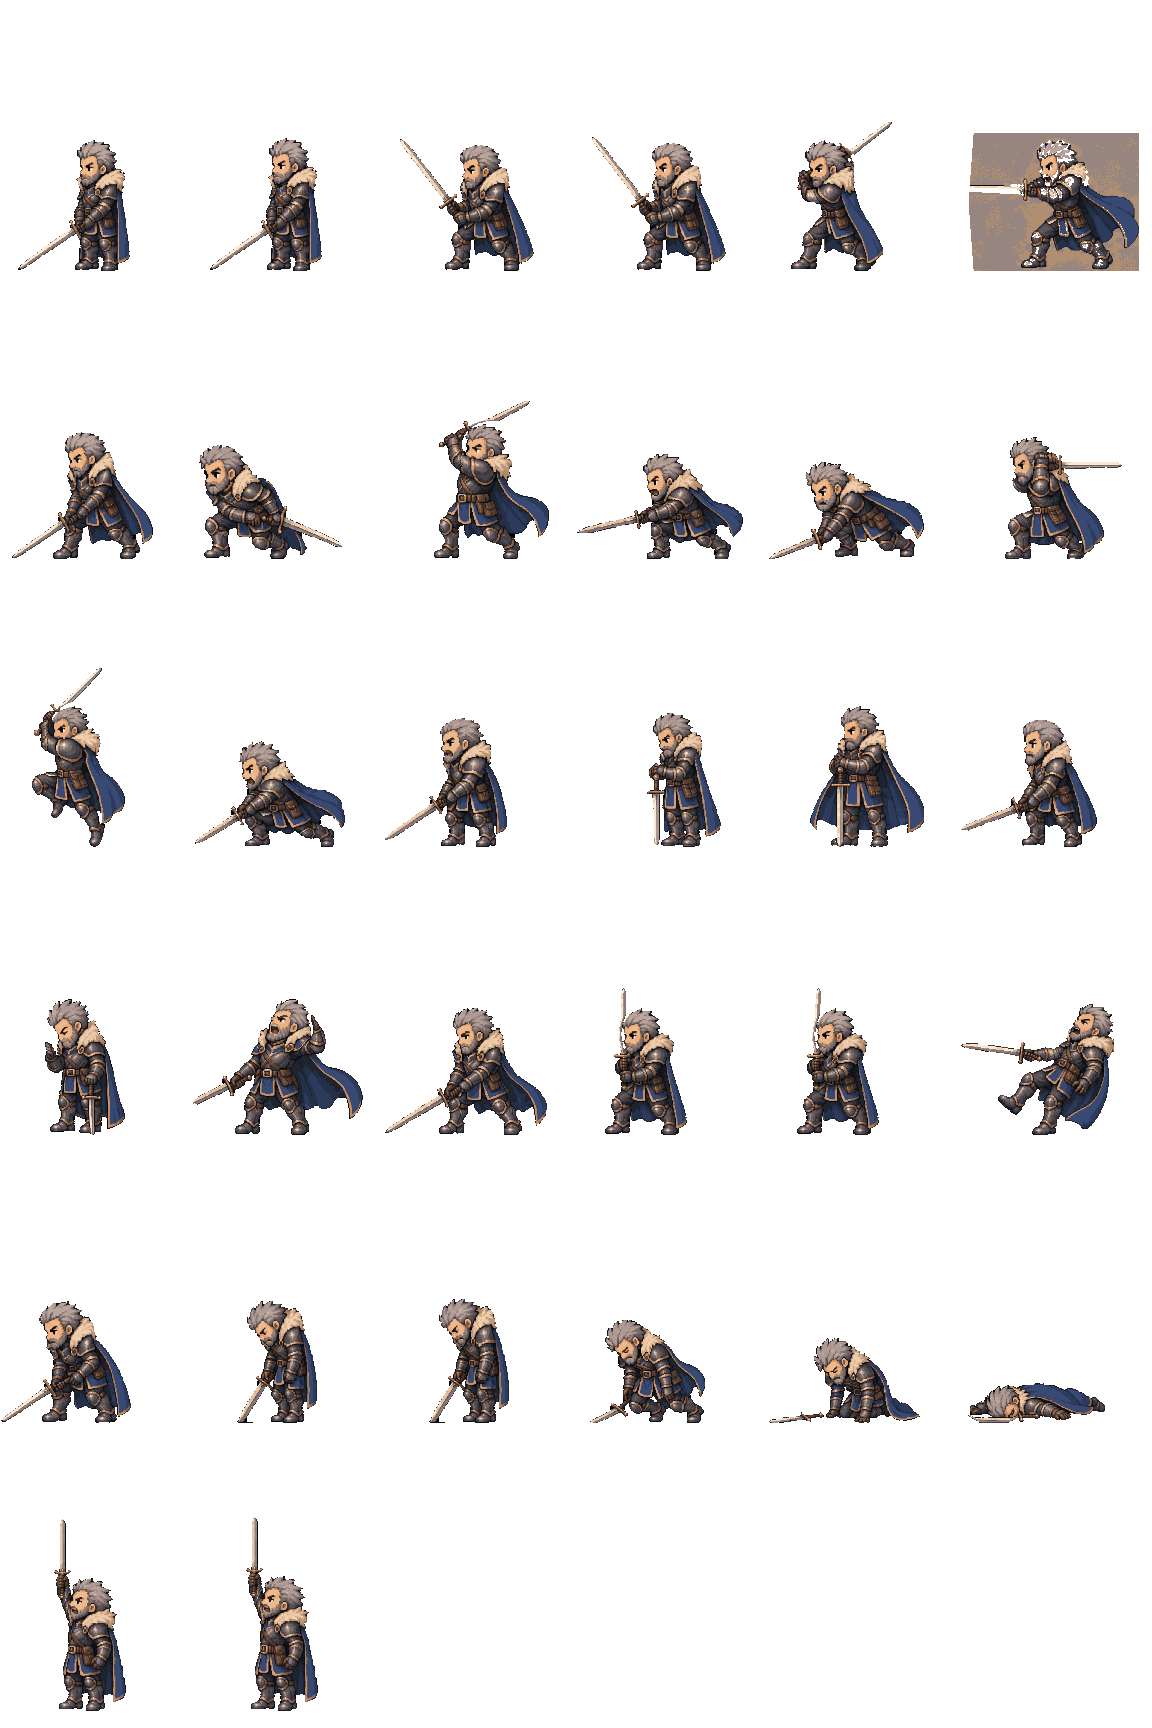
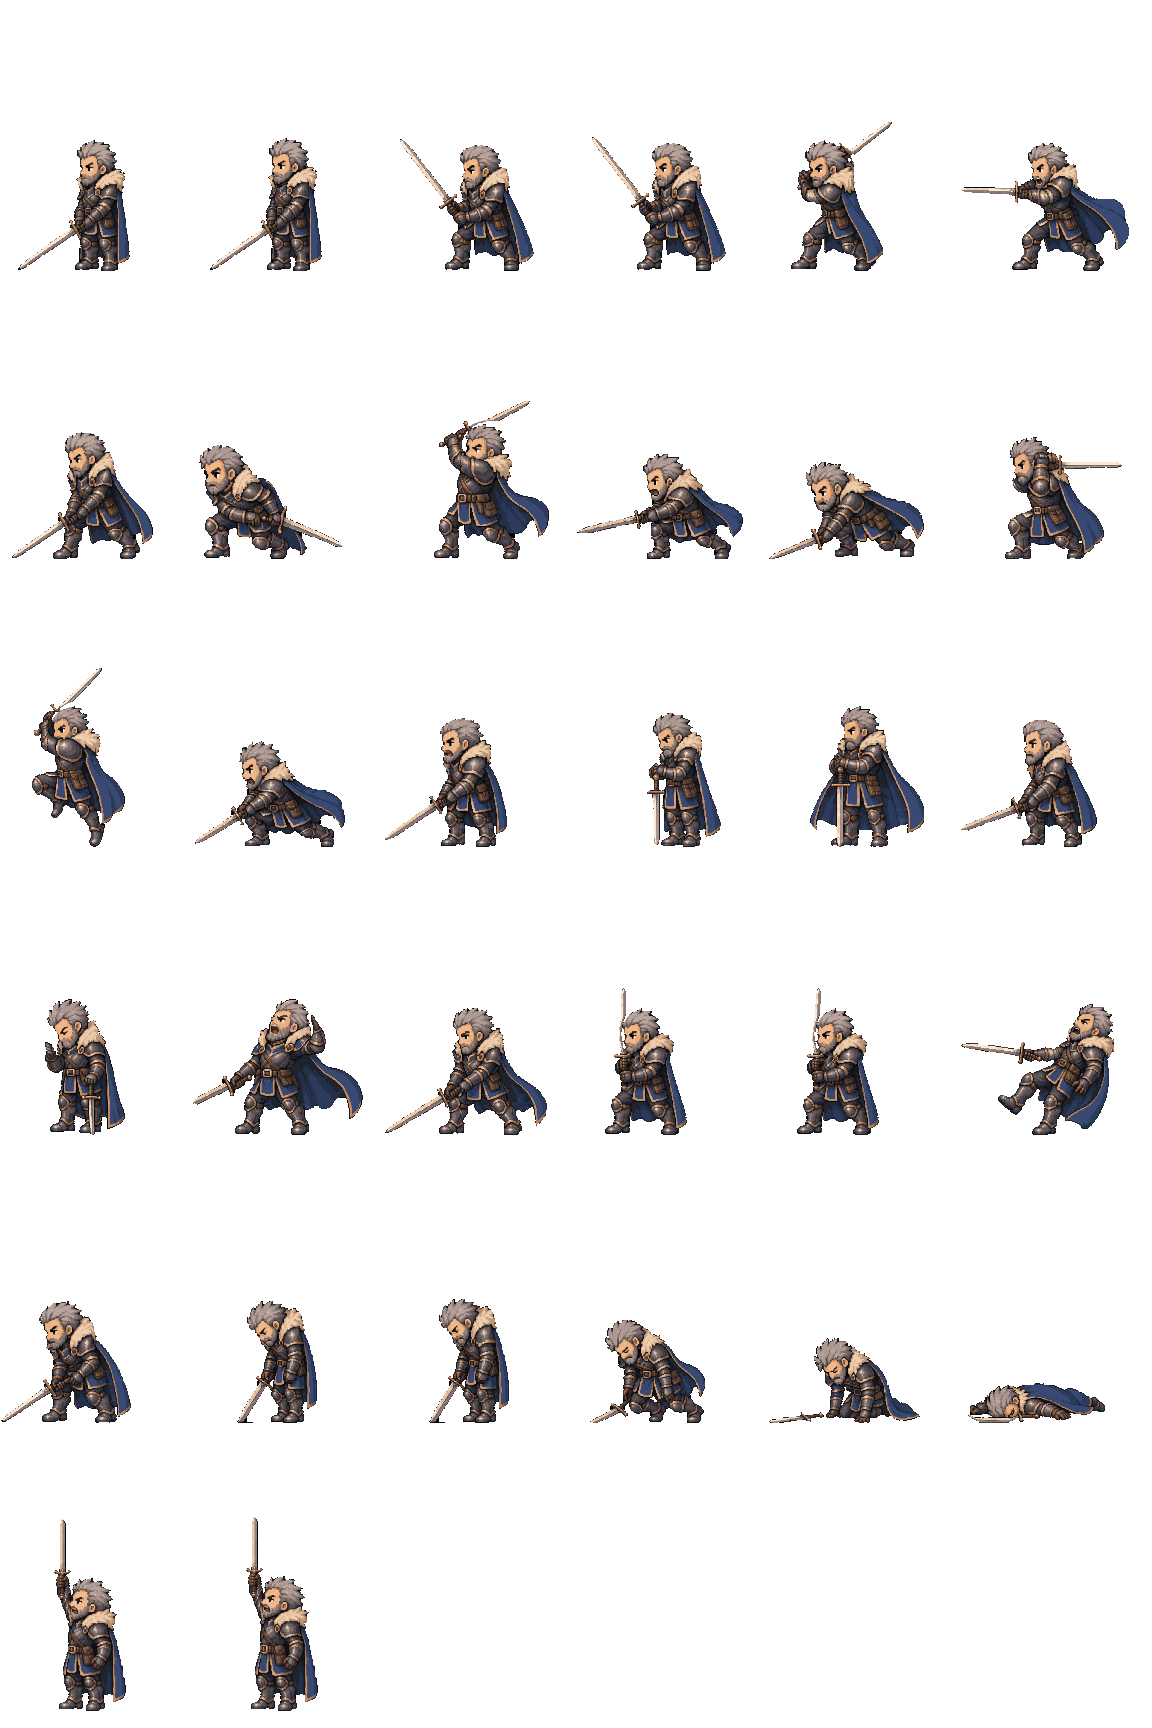
Pass SA1: the grey background seen in combat is Marek's strike.1; its cause in the combat chain, the chain fixed, every production sheet audited clean
The frame: marek-x3-combat strike.1 (figure `cut`, played on each of his simple strikes) carried an opaque beige-grey rectangle (its box 95 % full, a straight edge of 165 texels) and its greys cleared. The cause: rivalRig grows the head and gives reconstruct-grid a box reaching higher than the figure's; isolate cleaned only the figure's box, so the crop's top-left corner fell on the neighbouring windup's blade; reconstruct-grid took that steel for the background, kept the green as figure (the palette turned it beige grey) and cleared the figure's greys (--holes). Measured on every figure of the eight combat rigs: cut at 226 from the background, every other at 36 at most. Rendering not involved (binary alpha, ring, nearest, no mipmaps already enforced).

- lib/combat.mjs: isolate covers the crop reconstruct-grid reads; cornerIsBackground stops a build whose crop corner is not the sheet's background.
- build-combat --check on the eight rigs: seven rebuilt identical, Marek's strike.1 alone changes (22,236 texels; meta.pushed 37, its whole blade past the cell's front); the seven unchanged packs record the new lib hash only.
- tests/sheet-clean.test.mjs: every production character sheet (39) with binary alpha, a transparent ring, no figure filling 90 % of its box, no straight edge of half the cell; the chain's guard on Marek's cut. Fails on main's export (strike.1 only), passes now.
[…]

Changed region(s): [[0.8438, 0.0625, 1.0, 0.1562]]

diff --git a/JOURNAL.md b/JOURNAL.md
@@ -430,6 +430,57 @@ Légende : **[OK]** réussi · **[KO]** échec / impasse · **[?]** non résolu 
 ### Où reprendre
 - S2, dans sa séance. Toujours à l'opérateur : l'essai Safari sur un appareil Apple (SC-SAFARI).
 
+## Passe SA1 — Le fond gris d'un sprite en combat : l'image `strike.1` de Marek, sa cause dans la chaîne, l'audit de toutes les feuilles (2026-11-04)
+
+### Demande
+- L'opérateur, mot pour mot, transmis par la séance mère : « en combat j'ai remarque le fond d'un sprite n'est pas totalement transparent ( gris il me semble ) il faut audit et corriger cela et s'assurer que les autres sprites sont clean aussi ». La demande autorise la correction, pas l'approbation en production d'une feuille changée.
+
+### Le sprite vu — [OK] trouvé
+- **`marek-x3-combat`, image `strike.1`** (la figure `cut`, l'image du milieu de son coup simple, jouée à chacun de ses coups simples ; dans le duel du script de capture, la première fois à 10,1 s). L'image portait un rectangle opaque beige-gris autour de Marek (sa boîte, lame comprise, 170 × 138 texels, pleine à 95 %), et ses parties claires (cheveux, acier, reflets de l'armure) étaient transparentes : le fond et les gris de la figure inversés. Capturé dans le vrai duel (`?scene=arena&v2=1&foe=marek`, le duel mené jusqu'à ce que Marek joue lui-même `strike.1`), de nuit et à midi.
+
+### La cause — [OK] prouvée, dans la chaîne, pas dans le rendu
+- `rivalRig` grandit la tête des figures sur la planche (`growHead`) et donne à `reconstruct-grid.mjs` une boîte agrandie vers le haut (`grownBox`). `isolate`, qui peint les figures voisines avec le fond, ne travaillait que sur la boîte de la figure (± 40 px). Pour `cut` (planche a), la boîte agrandie monte de 144 à 98 ; son coin haut-gauche, (1049, 92) une fois la marge de 6 px ôtée, tombe sur la lame de la figure voisine `windup` (pixels 125,122,116 ; le fond vert de la planche : 3,166,73), restée hors de la zone d'`isolate`.
+- `reconstruct-grid` prend la première case de sa découpe pour le fond. Il a pris l'acier gris : le vert, à plus de 60 du gris, est resté figure ; `--holes` a vidé les texels proches du gris dans la figure (cheveux, lame, reflets) ; la palette de Marek a changé le vert en beige-gris (bruit compris : la moucheture) ; `dehalo` n'a pelé que deux anneaux de bord.
+- Mesuré sur toutes les figures des huit rigs de combat (le coin de chaque découpe après `isolate`, contre le fond de sa planche) : `cut` de Marek à 226 ; toutes les autres à 36 au plus (le bruit du fond vert contre le pixel de coin de la planche). Une seule figure touchée.
+- **Le rendu est hors de cause** : le chargeur (`CombatSheets.cellsOf`) refuse déjà tout alpha partiel et tout texel sur l'anneau de la case ; la texture est en `NearestFilter`, sans mipmaps, en `ClampToEdge` ; le rectangle était fait de texels opaques, connexes à la silhouette, au milieu de la case : aucun de ces contrôles ne pouvait le voir.
+
+### L'audit de toutes les feuilles de production — [OK]
+- Mesuré texel par texel, image par image (scripts dans le dossier temporaire de la séance), sur les 8 feuilles de combat (Ren et les sept rivaux, 259 images) et les 31 feuilles de la ville (la distribution du quartier, `hero-x2-v4`, les quinze du casting et les cinq citadins) : alpha partiel, texels transparents colorés, texels sur l'anneau de la case, îlots détachés, poches transparentes enclavées, texels de bord gris moyens ou verdâtres, remplissage de la boîte englobante, plus longue arête droite de la silhouette ; puis chaque feuille de combat regardée sur fond magenta, les points suspects zoomés sur fond vert.
+
+| Mesure | Combat (8 feuilles) | Ville (31 feuilles) |
+|---|---|---|
+| Alpha partiel, texels transparents colorés | 0 | 0 |
+| Texels sur l'anneau de la case | 0 | 0 |
+| Bords verdâtres | 0 | 0 |
+| Remplissage de la boîte, le plus haut | 0,95 (`strike.1` de Marek), puis 0,69 | 0,81 (la marchande) |
+| Arête droite la plus longue | 165 texels (`strike.1` de Marek), puis 61 (une lame) sur 192 | 25 sur 64 |
+| Îlots détachés | les lames tombées des K.O. (Marek 242 texels, Vessa, Ilse, Ren 199) et 17 bouts de Ren de 1 à 7 texels (31 texels) | 0 |
+
+- Relevés sans défaut : les taches roses vues sur fond magenta chez Vessa (`block.0`) sont l'ombre violette de son visage, opaque ; celle de Rhosk (`skillOff.1`) est le vrai jour entre son bras levé et sa tête. Les poches enclavées (224 à 1 202 texels par feuille) sont les jours entre les jambes, les bras et les lames. Les 17 bouts détachés de Ren sont des gris neutres et des bords sombres d'acier : des morceaux de lame que `blade2` laisse autour d'une main, pas du fond ; non touchés, à revoir avec la lame si l'opérateur le demande.
+
+### Fait — [OK]
+- **La chaîne corrigée** (`art-lab/characters/rigs/lib/combat.mjs`) : `isolate` couvre aussi la découpe que lira `reconstruct-grid` (la boîte agrandie), le critère de la figure gardée restant sa boîte ; `cornerIsBackground` arrête la construction si les deux pas en carré au coin de la découpe ne sont pas le fond de la planche, au test d'`isolate` lui-même. `isolate` et `grownBox` sont exportés pour le test.
+- **Reconstruit** : `build-combat.mjs --check` sur les huit rigs avec la chaîne corrigée : Ren, Vessa, Orla, Cassius, Ilse, Rhosk et Tobin reconstruits identiques ; Marek différent. Marek reconstruit : une seule image change, `strike.1` (22 236 texels sur la case) ; les 31 autres identiques au texel. Sa lame entière dépasse maintenant l'avant de la case : la case recule le corps de 37 texels (`meta.pushed` `strike.1` : 37, comme `kneel` 32), l'arène avance le sprite d'autant.
+- Les packs des sept feuilles inchangées : seule l'empreinte de `lib/combat.mjs` mise à jour (elles se reconstruisent à l'octet avec la nouvelle chaîne), leurs exports et leurs approbations intacts. Le pack de Marek : ses fichiers reconstruits et une entrée `revisions` qui dit l'approbation en attente. **Son manifeste n'est pas touché : l'approbation de l'export corrigé est à l'opérateur, avant la fusion.**
+- **`tests/sheet-clean.test.mjs`** : chaque feuille de personnage approuvée en production (39), chaque image : alpha binaire, anneau transparent, figure non vide, remplissage de sa boîte au plus 0,9, aucune arête droite de la moitié de la case ; puis le garde de la chaîne sur `cut` de Marek (l'ancienne isolation : le coin refusé ; la nouvelle : accepté). Contrôle négatif : sur l'export de `main`, le test échoue sur `strike.1` seul (remplissage 95 %, arête de 165 texels).
+
+### Preuves
+- Avant / après dans le duel, de nuit et à midi, l'image jouée par le duel lui-même (captures déterministes, `HOLD=1`, `FREEZE_CSS=1`) : le rectangle gris, puis Marek seul sur les pavés.
+- 0 px (`tools/diff.mjs`, écart maximal 0) entre avant et après : la ville de nuit (`seed=1842&intro=0`) et à midi, déterministes (`detshots`) ; l'arène par défaut (`?scene=arena`) ; le duel de la version 2 contre Vessa ; le duel contre Marek sur une autre image (`impact`).
+- `arena-sheet-proof.mjs` : les sept rivaux OK de nuit, Marek OK à midi (25 de ses 32 images montrées, aucune image hors de la feuille) ; contre-épreuve `--q=cast=generated` : FAIL, comme il se doit.
+- `npm run typecheck`, `npm test` 394 sur 394, `npm run build`, `npm run art:validate` (61 manifestes, 85 sources archivées, 0 erreur ; 22 manifestes de son).
+
+### Limites
+- L'approbation de la feuille corrigée de Marek est à l'opérateur : la branche n'est pas fusionnée avant sa réponse, consignée mot pour mot.
+- La règle du test (remplissage, arête droite) attrape un fond resté en bloc ; un fond resté en mince bande contre la silhouette ne la franchirait pas : c'est le garde de la chaîne qui le refuse à la source.
+
+### Où reprendre
+- Consigner l'approbation de l'opérateur dans le manifeste et le pack de `marek-x3-combat`, puis fusionner. Ensuite : rien de neuf ; les bouts de lame de Ren si l'opérateur les veut repris.
+
+### Pensée
+- Deux étapes d'une chaîne qui lisent deux boîtes différentes se trompent dans la marge entre les deux : ce qu'une étape nettoie doit couvrir ce que la suivante lit, et l'hypothèse « le coin est le fond » se vérifie là où elle est faite.
+- Un contrôle d'export (alpha binaire, anneau transparent) ne voit pas un fond devenu opaque et connexe à la figure : il faut une mesure de forme (remplissage, arête droite) et un regard sur fond contrasté.
+
 ## À reprendre (par priorité)
 
 > Élaguée le 18/10 (Passe M3) : seul le travail ouvert reste, regroupé par thème ; ce qui est fait vit dans sa passe. Les anciens repères
@@ -494,7 +545,7 @@ Légende : **[OK]** réussi · **[KO]** échec / impasse · **[?]** non résolu 
   - hors tranche : phase d'équipe et recrutement effectif, festival, son, commandes tactiles, art de combat du héros cuit.
 
 **1. Distribution de personnages — décisions de l'opérateur, non traitées** (état de la distribution : `art-lab/characters/README.md`)
-- **Casting (Passe CA1)** : fiche remplie, une figure par personnage et par rival (tableau de la passe) ; feuilles de ville ×2 puis feuilles ×3 dans l'ordre X2, version 2 seule, quartier inchangé, production par fiche de lot. Lot 1 fait (Passes CA2 à CA5) : les quinze feuilles `-x2-v2` en production sur les places et dans les portraits de la version 2, plus aucun sprite provisoire. Les cinq citadins sont en production (Passe CA7). Ren (39 images) et les sept rivaux (Marek 32, Vessa 34, Orla 29, Cassius 34, Ilse 32, Rhosk 32, Tobin 27) sont en production dans les duels de la version 2 (Passes CX2, CX4), chacun sous sa figure, plus aucun art de Marek emprunté. Ouvert : N7, le rôle de trois panneaux de G1 (note vide) ; les PNG d'origine de G1 et G2.
+- **Casting (Passe CA1)** : fiche remplie, une figure par personnage et par rival (tableau de la passe) ; feuilles de ville ×2 puis feuilles ×3 dans l'ordre X2, version 2 seule, quartier inchangé, production par fiche de lot. Lot 1 fait (Passes CA2 à CA5) : les quinze feuilles `-x2-v2` en production sur les places et dans les portraits de la version 2, plus aucun sprite provisoire. Les cinq citadins sont en production (Passe CA7). Ren (39 images) et les sept rivaux (Marek 32, Vessa 34, Orla 29, Cassius 34, Ilse 32, Rhosk 32, Tobin 27) sont en production dans les duels de la version 2 (Passes CX2, CX4), chacun sous sa figure, plus aucun art de Marek emprunté. Ouvert : N7, le rôle de trois panneaux de G1 (note vide) ; les PNG d'origine de G1 et G2. **Passe SA1** : le fond gris vu en combat était l'image `strike.1` de Marek (le fond vert de sa planche gardé opaque par la chaîne) ; chaîne corrigée, feuille reconstruite, toutes les feuilles de production mesurées propres (`tests/sheet-clean.test.mjs`) ; l'approbation de la feuille corrigée de Marek est à l'opérateur avant la fusion.
 - **Variantes de PNJ** (demande de l'opérateur du 17/10, mot pour mot : « Par ailleurs a la suite de nos travaux de sprites NPC qui sont
   presque peuple partout sur le district Merchant, on creera par la suite des variantes de NPC avec couleur de cheveux et peau different pour
   amener plus de diversite au jeu »). Contraintes connues : la texture cuite garantissait 336 images et en porte 322 (dix feuilles,
@@ -1070,3 +1121,4 @@ l'alerte du nouveau duel chevauche ses cartes (plus hautes) sur les fenêtres ba
 - Une approbation lue dans une décision de fiche se cite telle quelle, avec ce qu'elle couvre, et se fait confirmer à la fiche suivante (Passe SN10).
 - Une page d'essai d'appareil dit elle-même si elle tourne sur l'appareil visé, et un relevé se lit avec son navigateur : « Fait » sur une carte ne vaut pas un essai sur Safari (Passe SN11).
 - Un extrait d'écoute montre ce que la carte demande de juger, et le reste à part : un duel complet sous une carte « couches » a fait juger des bruitages que la carte ne présentait pas (Passe SN11) ; sur trois extraits séparés, la même oreille a désigné la musique (Passe SN12).
+- Ce qu'une étape d'une chaîne nettoie couvre ce que la suivante lit : `isolate` nettoyait la boîte de la figure, `reconstruct-grid` lisait la boîte agrandie de sa tête et a pris la lame d'une voisine pour le fond. Une hypothèse (« le coin est le fond ») se vérifie là où elle sert, et un export se contrôle aussi par sa forme (remplissage, arête droite) et sur fond contrasté : l'alpha binaire et l'anneau transparent ne voient pas un fond opaque collé à la figure (Passe SA1).

diff --git a/AGENTS.md b/AGENTS.md
@@ -112,7 +112,7 @@ recent passes, "À reprendre" and "Principes à garder"; older passes are archiv
   against full duels on held-out seeds, the arena of today untouched; ~15 s, the suite's longest file), the arena of the new duel
   (`tests/arena-dynamic.test.mjs`, journal Passe C2: the parameter, the keys, the trial's settings, today's clips on the new moments, the HUD's
   reading at every step of a duel, every scripted moment, the play mode's flag), the version 2's systems (`tests/v2-skills`, `v2-gear`, `v2-town`, `v2-places`, `v2-story`, `v2-events`, `v2-sound`: journal Passes V2-V8; `v2-plaza-vis`, the squares' visibility, their poses and their light, journal Passe VP1, their framings (the hero in every frame and over the near edge, no monument hiding him or cut by the frame) and their free floor, journal Passe VP7, each square's own axis, near edge and camera room, journal Passe VP9; `v2-coherence`, the ten days told as they are and the events in their order, journal Passe VP2; `v2-injury`, a bout wounds only by a heavy knock-down, the default game's rule to its boundary, the wound's effect and its three answers, whole games, journal Passe V2B1; `v2-heraldry`, the tournament's emblems in a 4 x 4 atlas for the version 2's pages only and today's atlas call for call as main's (a recording canvas, `tests/heraldry-canvas.mjs`), journal Passe VP3; `v2-skyline`, the arena over the town's far city of a version 2 game, today's far city byte for byte as main's, journal Passe VP8; `v2-exits`, the ways between places walked both ways, journal Passe VP5, and the squares' walkers led round what stands there, journal Passe VP6, at every moment of the day, and their light plan, journal Passe VP7), the version 2's duel effects (`tests/combat-fx.test.mjs`, journal Passes FX2 / FX5: each recipe's steps and anchors, one per action, every rival's skills included, a ring only on the blow, slow motion only on the K.O., the engine's mask contract, the guard's contact by rival, a duel under the version 2's rules alone reaching them), the version 2's charged command (`tests/combat-charge.test.mjs`, journal Passe V1: the tiers, the AP, the levels, what cuts a
-  charge, C3's defence and skills, the bot, the off-screen race, `V2_SIM_HASH`), the combat sheets of the casting (`tests/combat-cast.test.mjs`, journal Passes CX1 / CX2: each rival's clips against its own kit, the frame contract, its town sheet's palette, the page of 80 cells, the charge's frames and a rival's skills against § 14), the casting's sheets (`tests/plaza-cast.test.mjs`, journal Passes CA2 to CA7: each figure from its clean sheet, approved, the first recipe's sheets superseded, the district and today's game never reached, no provisional sprite; the five citizens from the NPC 01-16 sheet, approved, their height, who walks at which moment), the sound's measures, lots and gate (`tests/audio-measure.test.mjs`, EBU Tech 3341's cases; `tests/v2-sound-s0`, `v2-sound-s1`; `tests/audio-baked.test.mjs`, journal Passes SN2 / SN3; `tests/audio-band.test.mjs`, the band's instruments in tune, the scores read without sound, every piece's loop, the catalogue's length, the motif whole only where it belongs and the catalogue not copying itself, journal Passes SN5 / SN7 / SN8), the loading screen (`tests/loading-screen.test.mjs`, journal
+  charge, C3's defence and skills, the bot, the off-screen race, `V2_SIM_HASH`), the combat sheets of the casting (`tests/combat-cast.test.mjs`, journal Passes CX1 / CX2: each rival's clips against its own kit, the frame contract, its town sheet's palette, the page of 80 cells, the charge's frames and a rival's skills against § 14), every production sheet clean (`tests/sheet-clean.test.mjs`, journal Passe SA1: binary alpha, a transparent ring, no figure filling its box, no straight edge of half the cell, and the combat chain's guard on the crop's corner), the casting's sheets (`tests/plaza-cast.test.mjs`, journal Passes CA2 to CA7: each figure from its clean sheet, approved, the first recipe's sheets superseded, the district and today's game never reached, no provisional sprite; the five citizens from the NPC 01-16 sheet, approved, their height, who walks at which moment), the sound's measures, lots and gate (`tests/audio-measure.test.mjs`, EBU Tech 3341's cases; `tests/v2-sound-s0`, `v2-sound-s1`; `tests/audio-baked.test.mjs`, journal Passes SN2 / SN3; `tests/audio-band.test.mjs`, the band's instruments in tune, the scores read without sound, every piece's loop, the catalogue's length, the motif whole only where it belongs and the catalogue not copying itself, journal Passes SN5 / SN7 / SN8), the loading screen (`tests/loading-screen.test.mjs`, journal
   Passe UI4: its tone and opening line by day state, its content held until both fonts load and never more than a second, its error, the play
   mode's page tone, its CSS from the design system's tokens only), the texts' tables and the version 2's flag (`tests/texts.test.mjs`, journal
   Passe V0: every key used and defined, the default game's texts pinned word for word from main).
